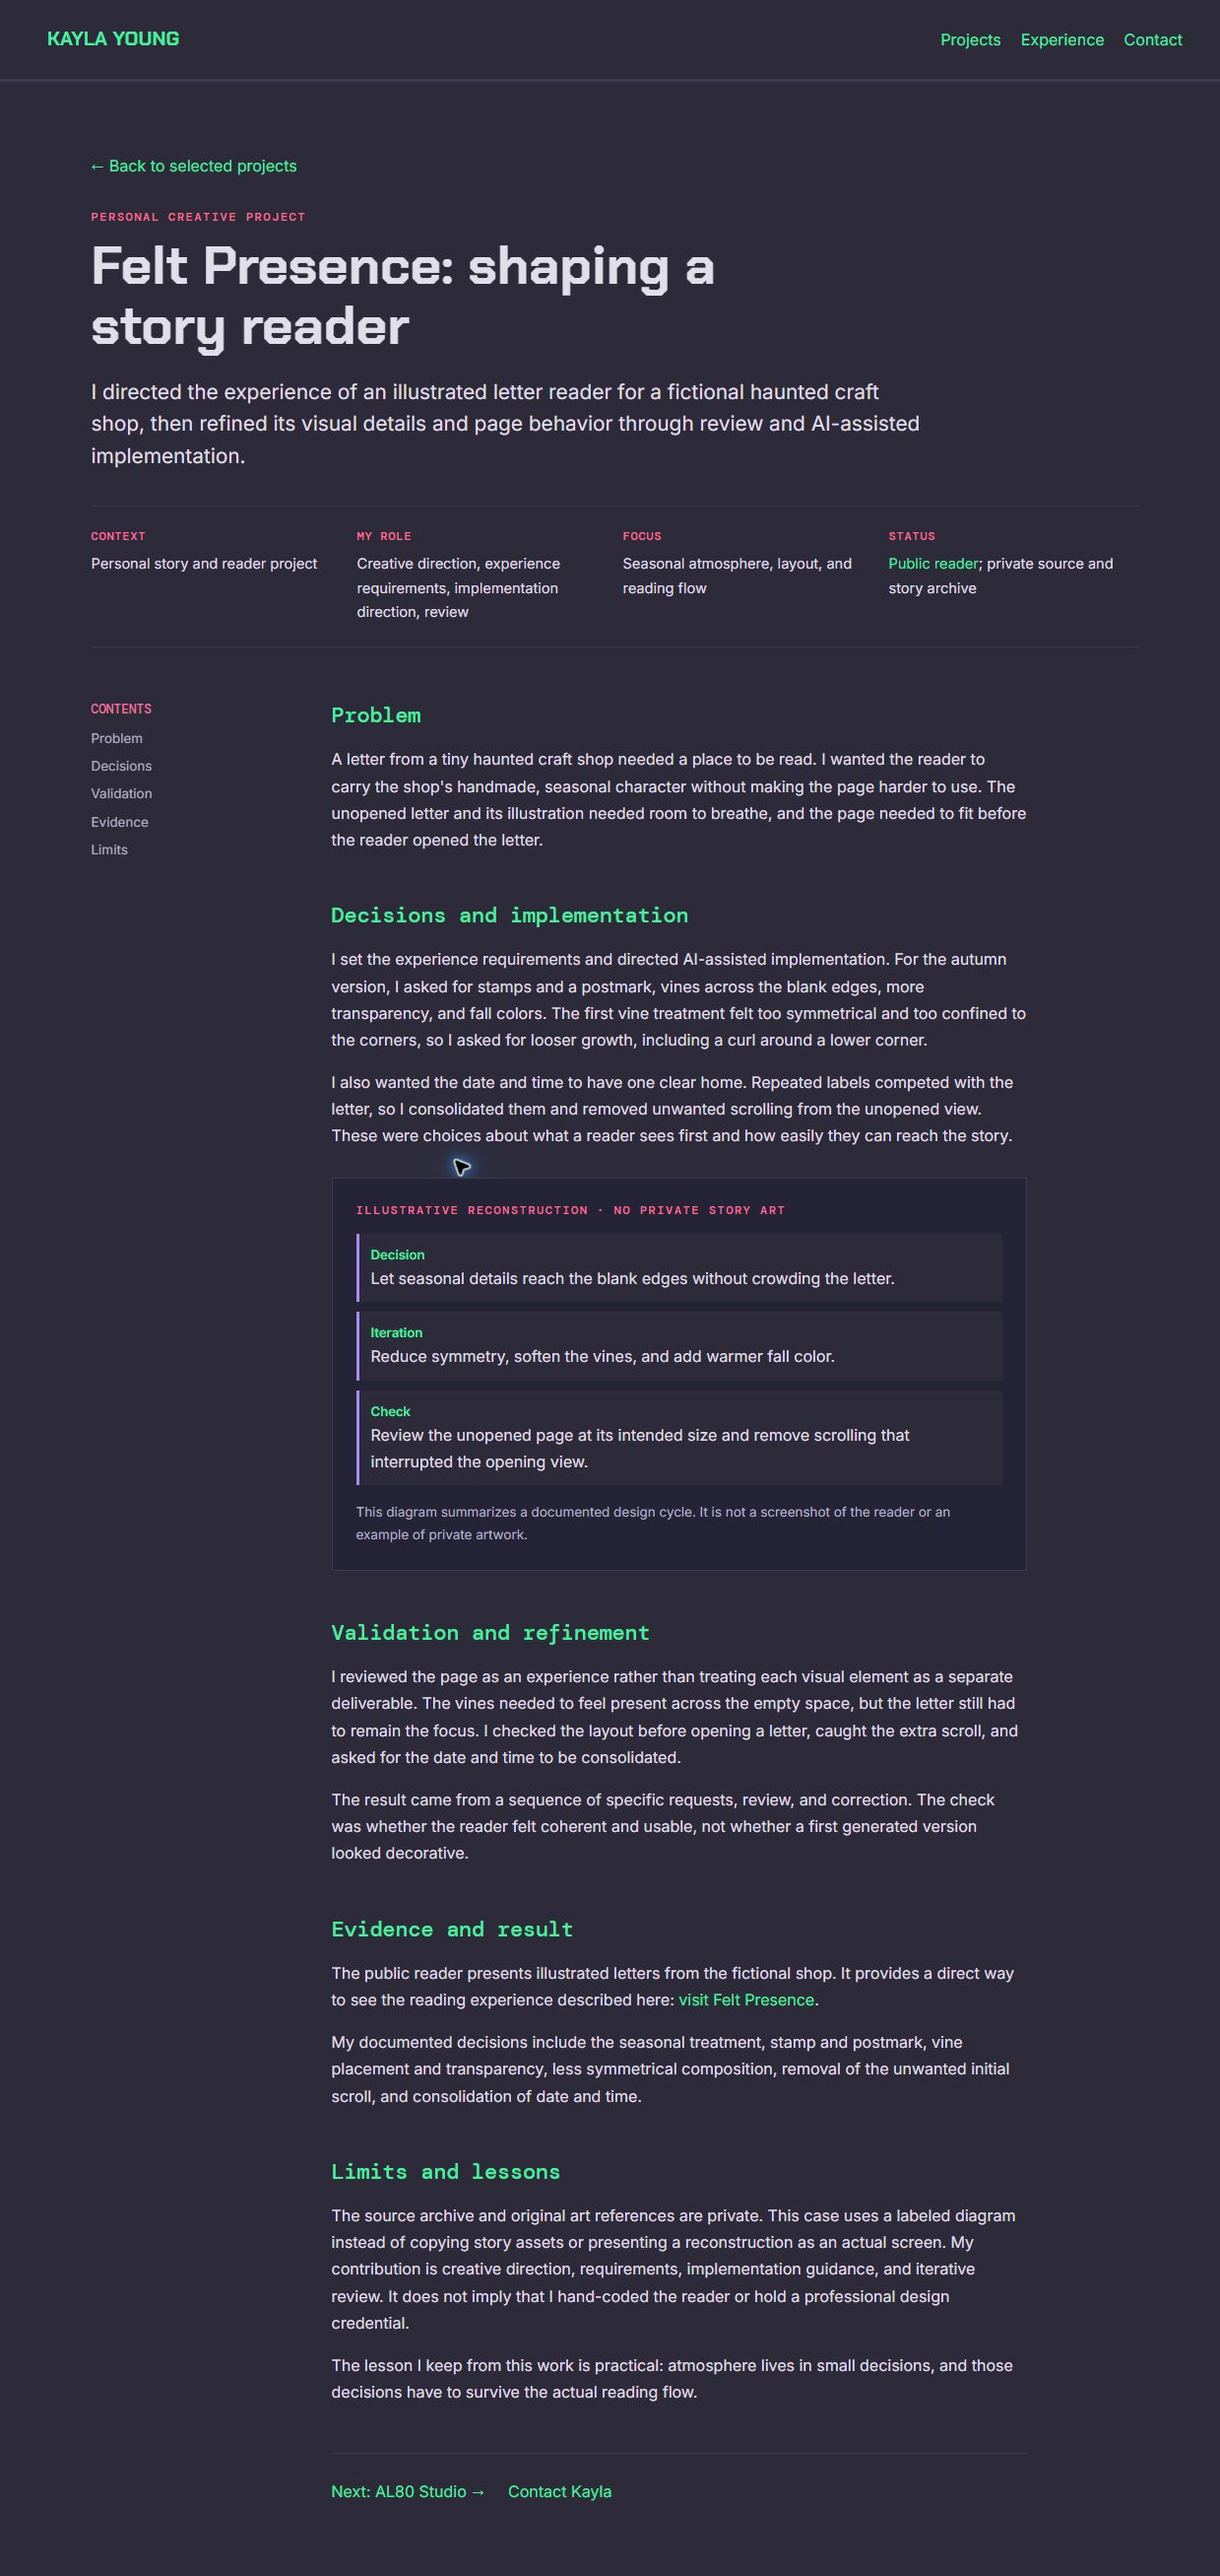
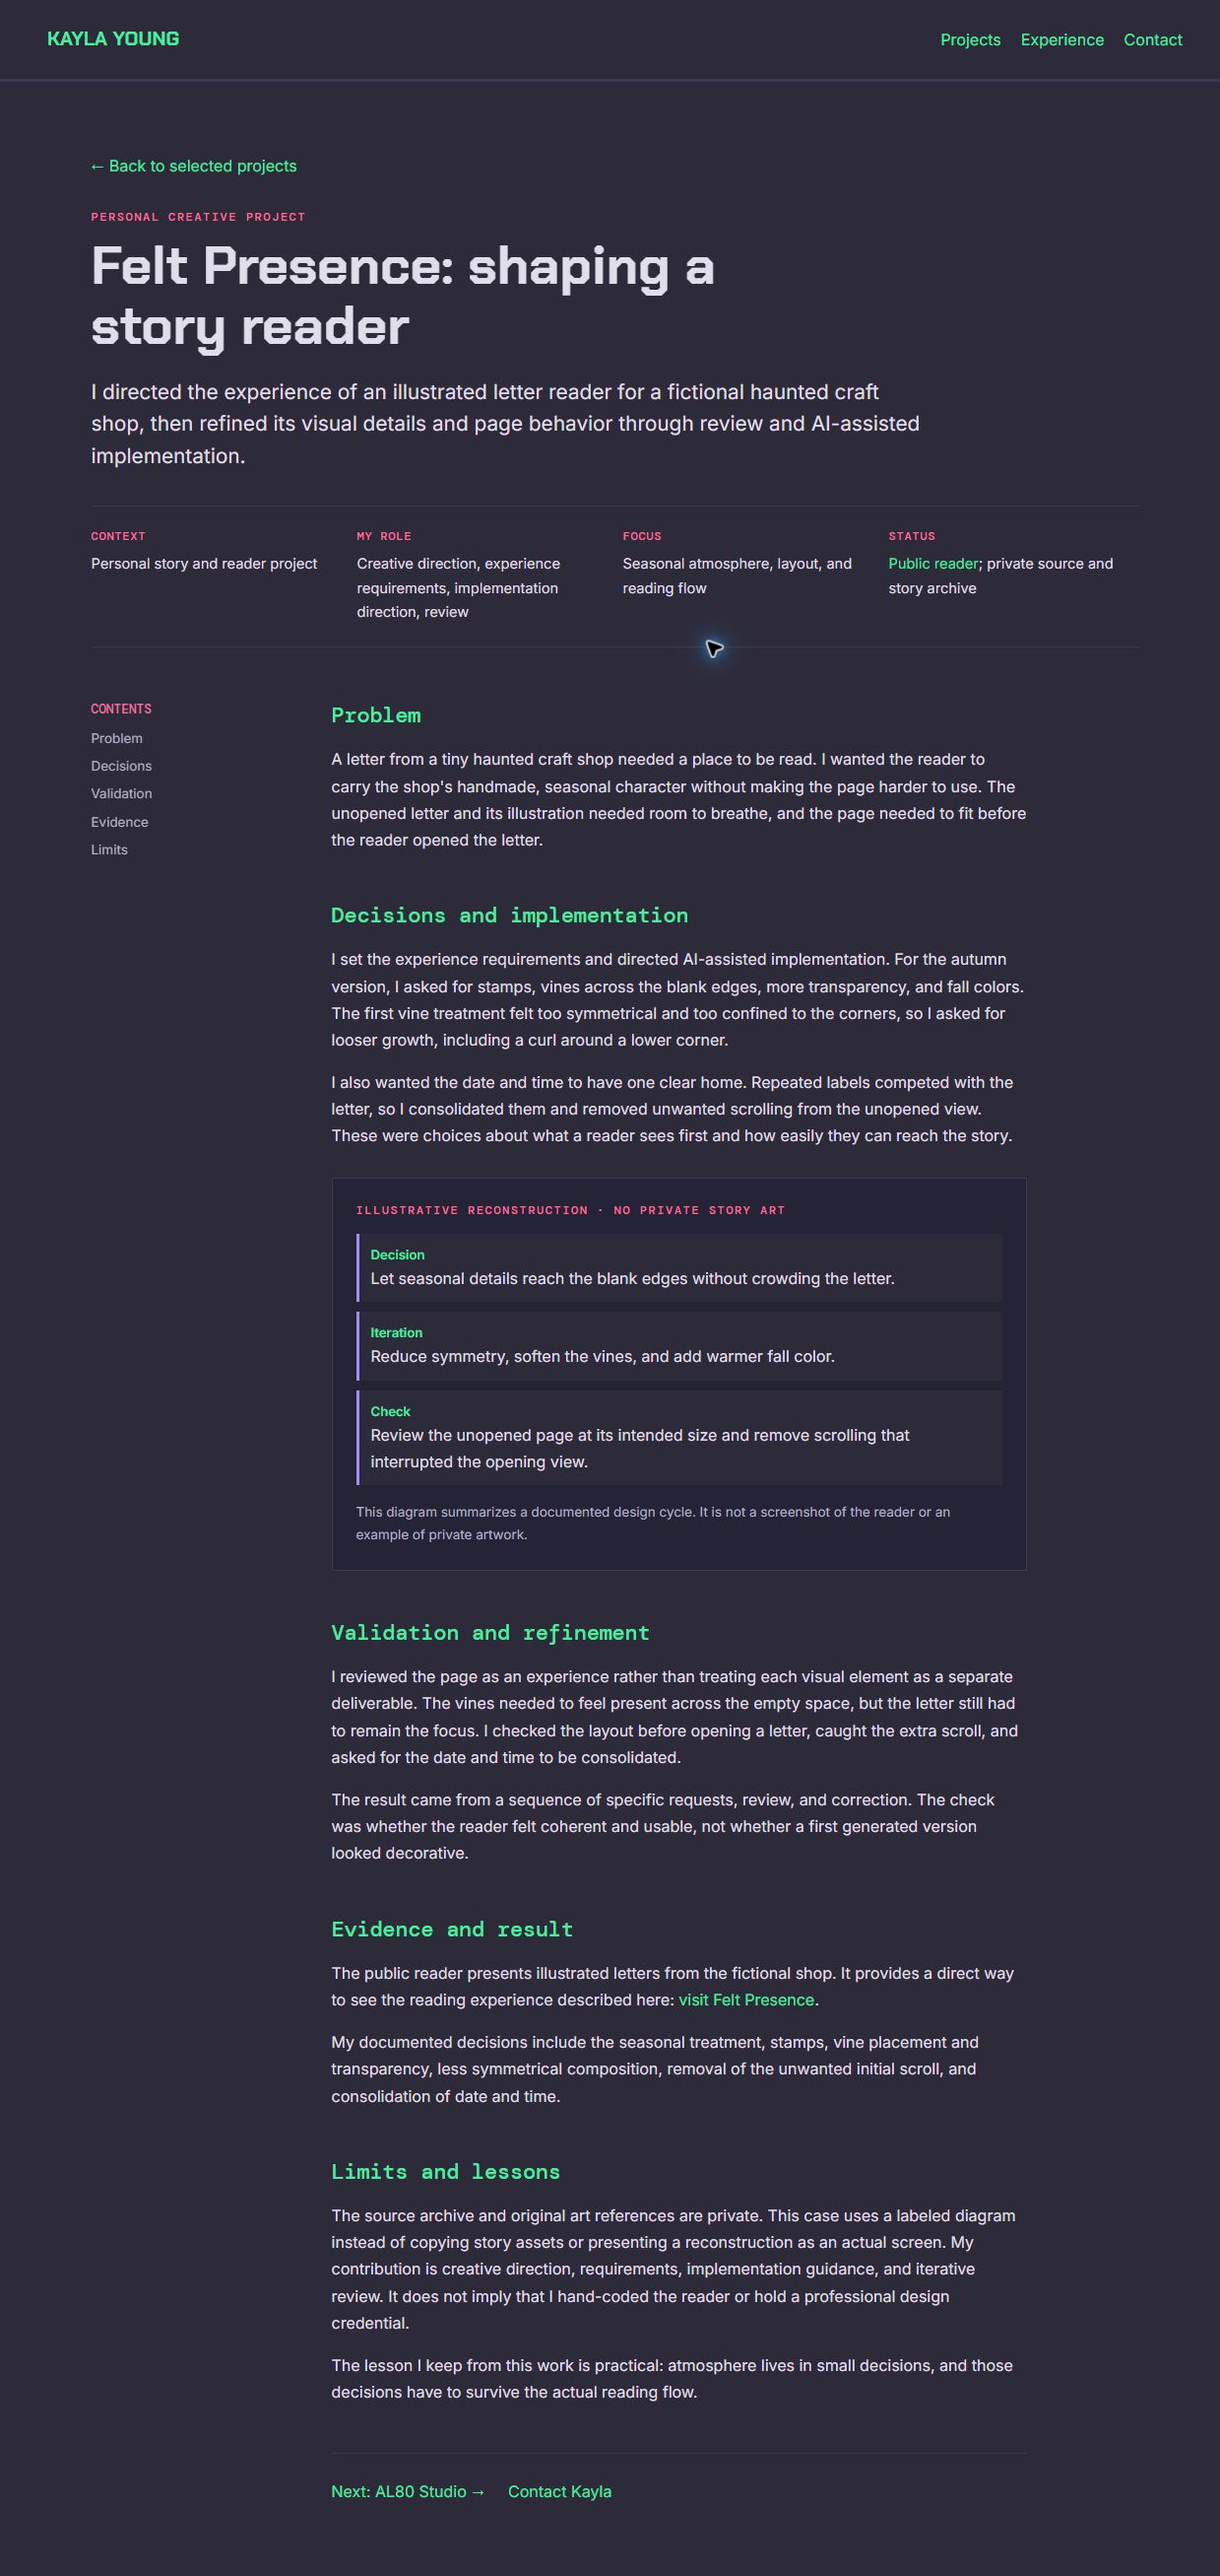
portfolio: narrow Felt Presence attribution

diff --git a/portfolio/projects/felt-presence.html b/portfolio/projects/felt-presence.html
@@ -22,10 +22,10 @@
 <nav class="contents" aria-label="On this page"><h2>Contents</h2><a href="#problem">Problem</a><a href="#decisions">Decisions</a><a href="#validation">Validation</a><a href="#evidence">Evidence</a><a href="#limits">Limits</a></nav>
 <article class="case-body">
 <section id="problem"><h2>Problem</h2><p>A letter from a tiny haunted craft shop needed a place to be read. I wanted the reader to carry the shop's handmade, seasonal character without making the page harder to use. The unopened letter and its illustration needed room to breathe, and the page needed to fit before the reader opened the letter.</p></section>
-<section id="decisions"><h2>Decisions and implementation</h2><p>I set the experience requirements and directed AI-assisted implementation. For the autumn version, I asked for stamps and a postmark, vines across the blank edges, more transparency, and fall colors. The first vine treatment felt too symmetrical and too confined to the corners, so I asked for looser growth, including a curl around a lower corner.</p><p>I also wanted the date and time to have one clear home. Repeated labels competed with the letter, so I consolidated them and removed unwanted scrolling from the unopened view. These were choices about what a reader sees first and how easily they can reach the story.</p>
+<section id="decisions"><h2>Decisions and implementation</h2><p>I set the experience requirements and directed AI-assisted implementation. For the autumn version, I asked for stamps, vines across the blank edges, more transparency, and fall colors. The first vine treatment felt too symmetrical and too confined to the corners, so I asked for looser growth, including a curl around a lower corner.</p><p>I also wanted the date and time to have one clear home. Repeated labels competed with the letter, so I consolidated them and removed unwanted scrolling from the unopened view. These were choices about what a reader sees first and how easily they can reach the story.</p>
 <figure><p class="figure-label">Illustrative reconstruction · No private story art</p><div class="reconstruction"><div><strong>Decision</strong>Let seasonal details reach the blank edges without crowding the letter.</div><div><strong>Iteration</strong>Reduce symmetry, soften the vines, and add warmer fall color.</div><div><strong>Check</strong>Review the unopened page at its intended size and remove scrolling that interrupted the opening view.</div></div><figcaption>This diagram summarizes a documented design cycle. It is not a screenshot of the reader or an example of private artwork.</figcaption></figure></section>
 <section id="validation"><h2>Validation and refinement</h2><p>I reviewed the page as an experience rather than treating each visual element as a separate deliverable. The vines needed to feel present across the empty space, but the letter still had to remain the focus. I checked the layout before opening a letter, caught the extra scroll, and asked for the date and time to be consolidated.</p><p>The result came from a sequence of specific requests, review, and correction. The check was whether the reader felt coherent and usable, not whether a first generated version looked decorative.</p></section>
-<section id="evidence"><h2>Evidence and result</h2><p>The public reader presents illustrated letters from the fictional shop. It provides a direct way to see the reading experience described here: <a href="https://felt-presence.snackdriven.com/">visit Felt Presence</a>.</p><p>My documented decisions include the seasonal treatment, stamp and postmark, vine placement and transparency, less symmetrical composition, removal of the unwanted initial scroll, and consolidation of date and time.</p></section>
+<section id="evidence"><h2>Evidence and result</h2><p>The public reader presents illustrated letters from the fictional shop. It provides a direct way to see the reading experience described here: <a href="https://felt-presence.snackdriven.com/">visit Felt Presence</a>.</p><p>My documented decisions include the seasonal treatment, stamps, vine placement and transparency, less symmetrical composition, removal of the unwanted initial scroll, and consolidation of date and time.</p></section>
 <section id="limits"><h2>Limits and lessons</h2><p>The source archive and original art references are private. This case uses a labeled diagram instead of copying story assets or presenting a reconstruction as an actual screen. My contribution is creative direction, requirements, implementation guidance, and iterative review. It does not imply that I hand-coded the reader or hold a professional design credential.</p><p>The lesson I keep from this work is practical: atmosphere lives in small decisions, and those decisions have to survive the actual reading flow.</p></section>
 <footer class="case-footer"><a href="al80-studio.html">Next: AL80 Studio &rarr;</a><a href="mailto:kayla@snackdriven.com">Contact Kayla</a></footer>
 </article></div></main>
